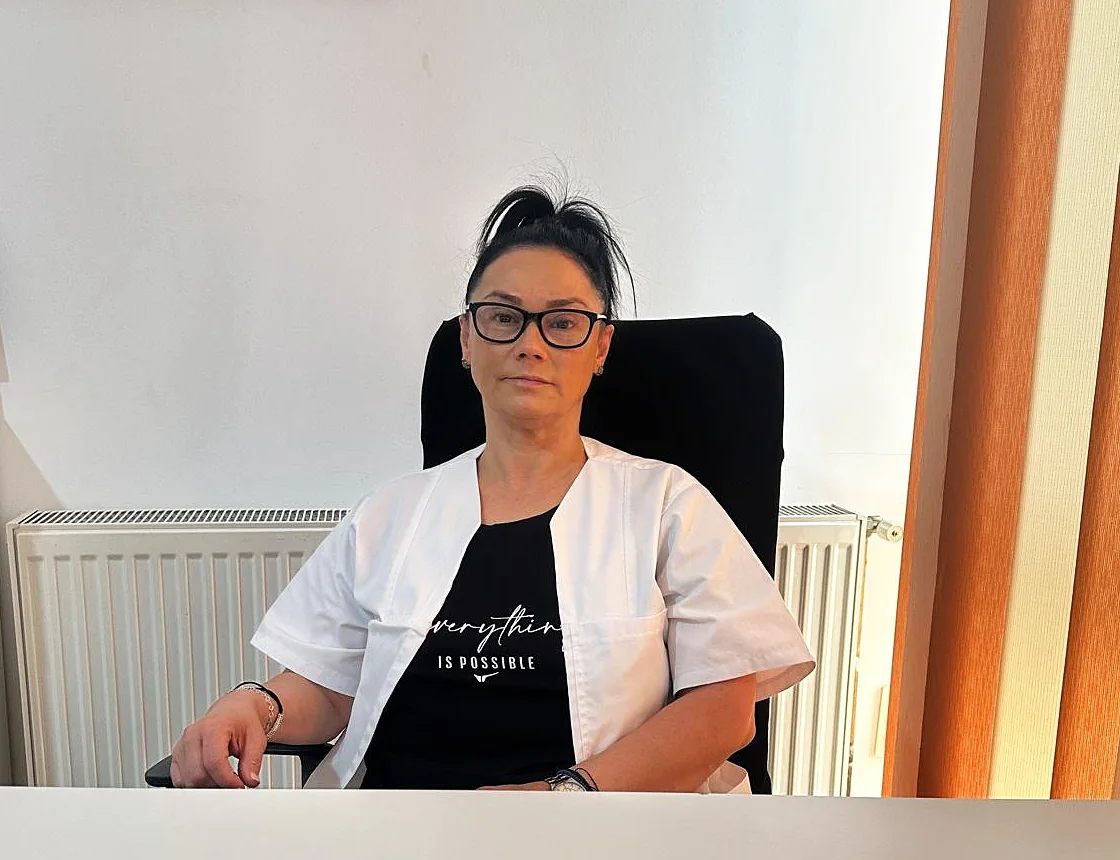
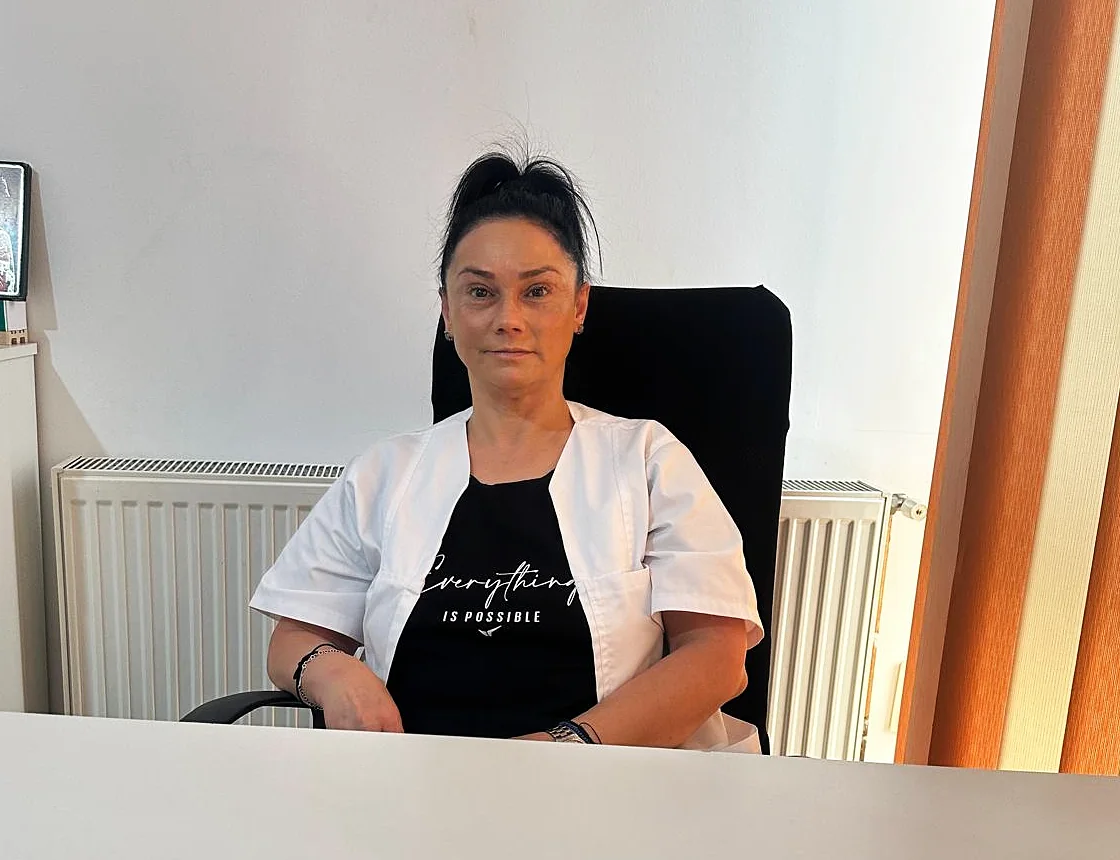
Aplică observațiile clientei din 26 octombrie
Scoate rubrica „Cui mă adresez" de pe prima pagină, pentru că aceeași listă
apare la Servicii. Trece antetul pe fotografia fără ochelari, în ambele
decupaje.

Pune experiența la început cu scris maro și cu formularea ei nouă, „dedicați
copiilor cu nevoi speciale", pe acasă și pe despre, și scoate propoziția cu
sprijin individualizat.

Banda de sub antet și banda de contact revin pe fond deschis. Macheta ei arată
că prin „pe fond verde" înțelesese butonul de WhatsApp, nu toată banda.

Claude-Session: https://claude.ai/code/session_01TUEpYGdMrc32DEUty6u6Hd

diff --git a/src/styles/global.css b/src/styles/global.css
@@ -22,6 +22,8 @@
   --color-line: #e8e1d7;
   --color-clay: #3c2a21;
   --color-clay-dark: #24150e;
+  --color-whatsapp: #15784b;
+  --color-whatsapp-dark: #10603c;
 
   --font-serif: "Fraunces Variable", "Iowan Old Style", Georgia, "Times New Roman", serif;
   --font-sans: "Instrument Sans Variable", ui-sans-serif, system-ui, -apple-system, "Segoe UI", sans-serif;
@@ -108,18 +110,15 @@
   }
   .btn-ghost:hover { background-color: var(--color-clay); color: #fff; }
 
-  /* variantele pentru banda de contact, care stă pe verde închis */
-  .btn-light {
-    background-color: #fff;
-    color: var(--color-mint-900);
-  }
-  .btn-light:hover { background-color: var(--color-mint-100); }
-
-  .btn-outline-light {
-    border: 1px solid rgb(255 255 255 / 0.6);
+  /* Butonul de WhatsApp de pe banda de contact. Clienta a cerut, pe 25 octombrie la 22:06,
+     ca eticheta „Scrieți-mi pe WhatsApp" să stea pe fond verde, iar macheta trimisă pe
+     26 octombrie arată verdele de WhatsApp. Nuanța e coborâtă față de verdele oficial,
+     ca textul alb să treacă pragul de contrast AA. */
+  .btn-whatsapp {
+    background-color: var(--color-whatsapp);
     color: #fff;
   }
-  .btn-outline-light:hover { background-color: rgb(255 255 255 / 0.12); }
+  .btn-whatsapp:hover { background-color: var(--color-whatsapp-dark); }
 
   .prose-ro p { max-width: 62ch; }
 
